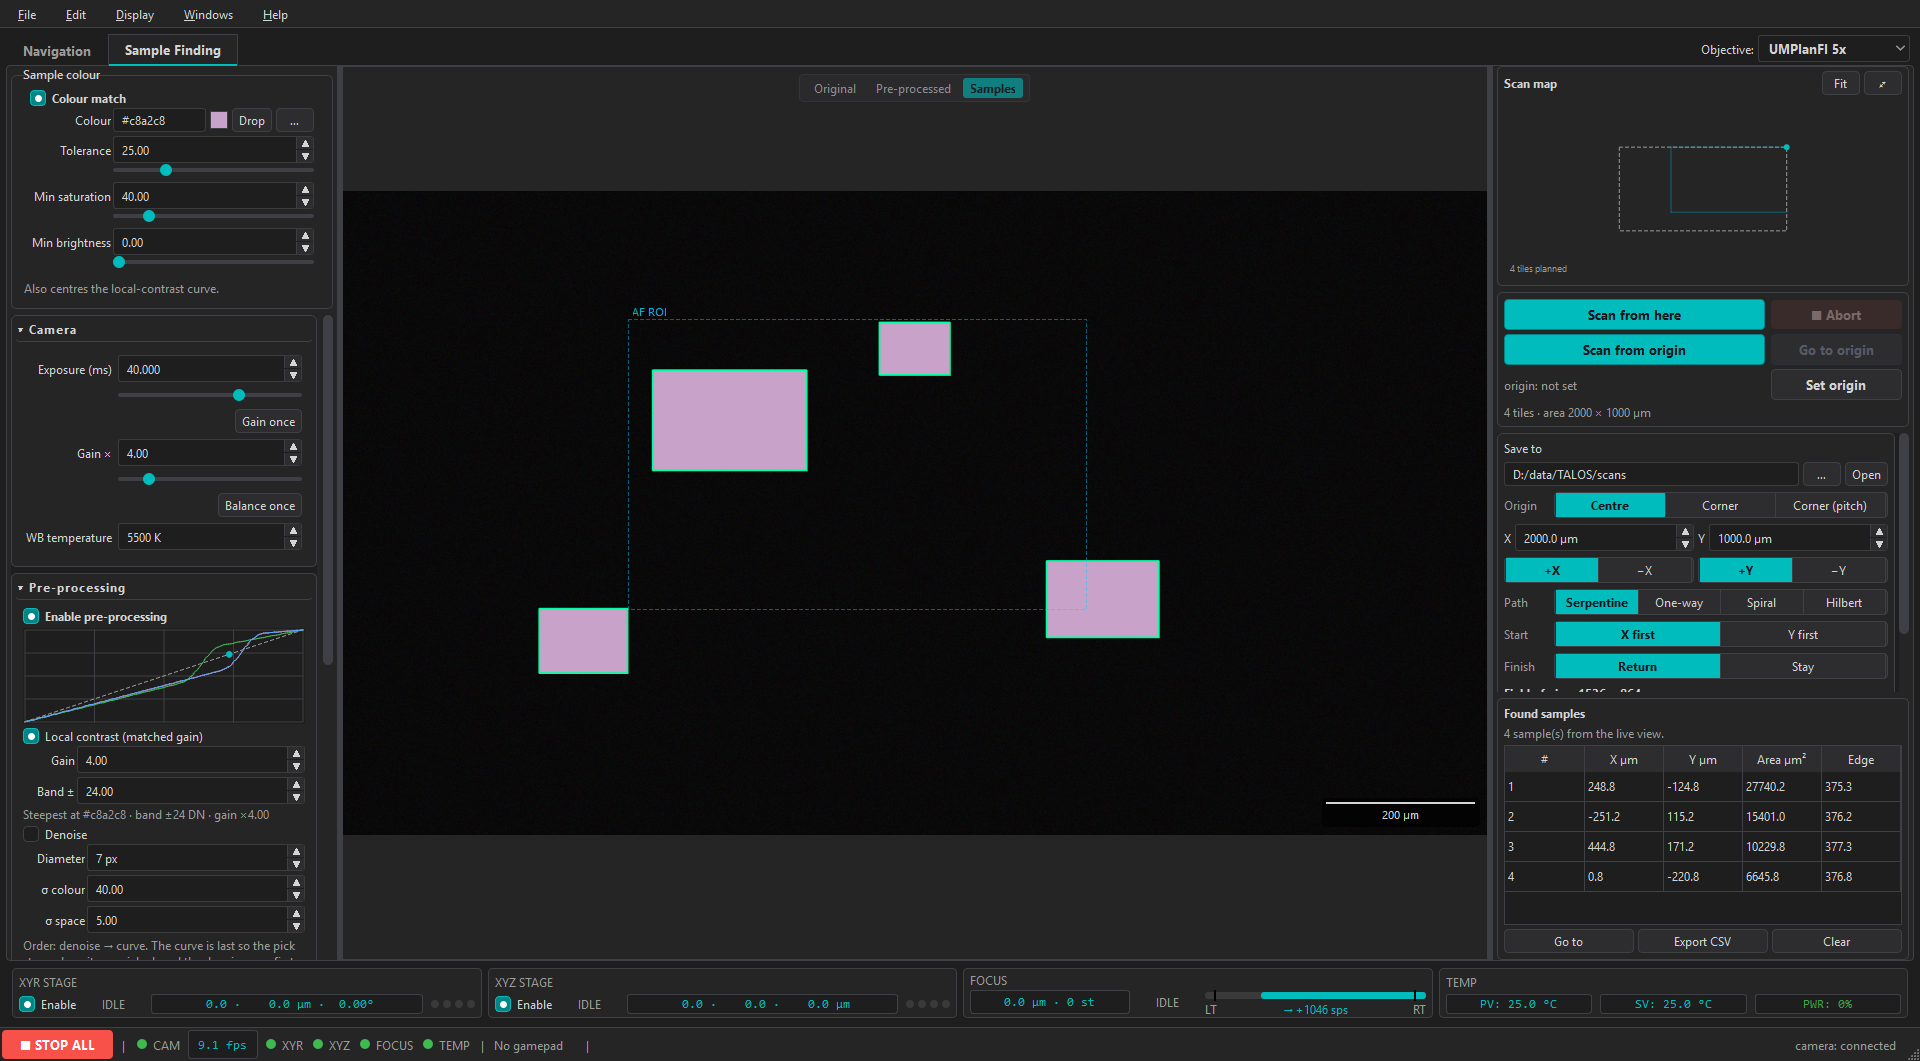
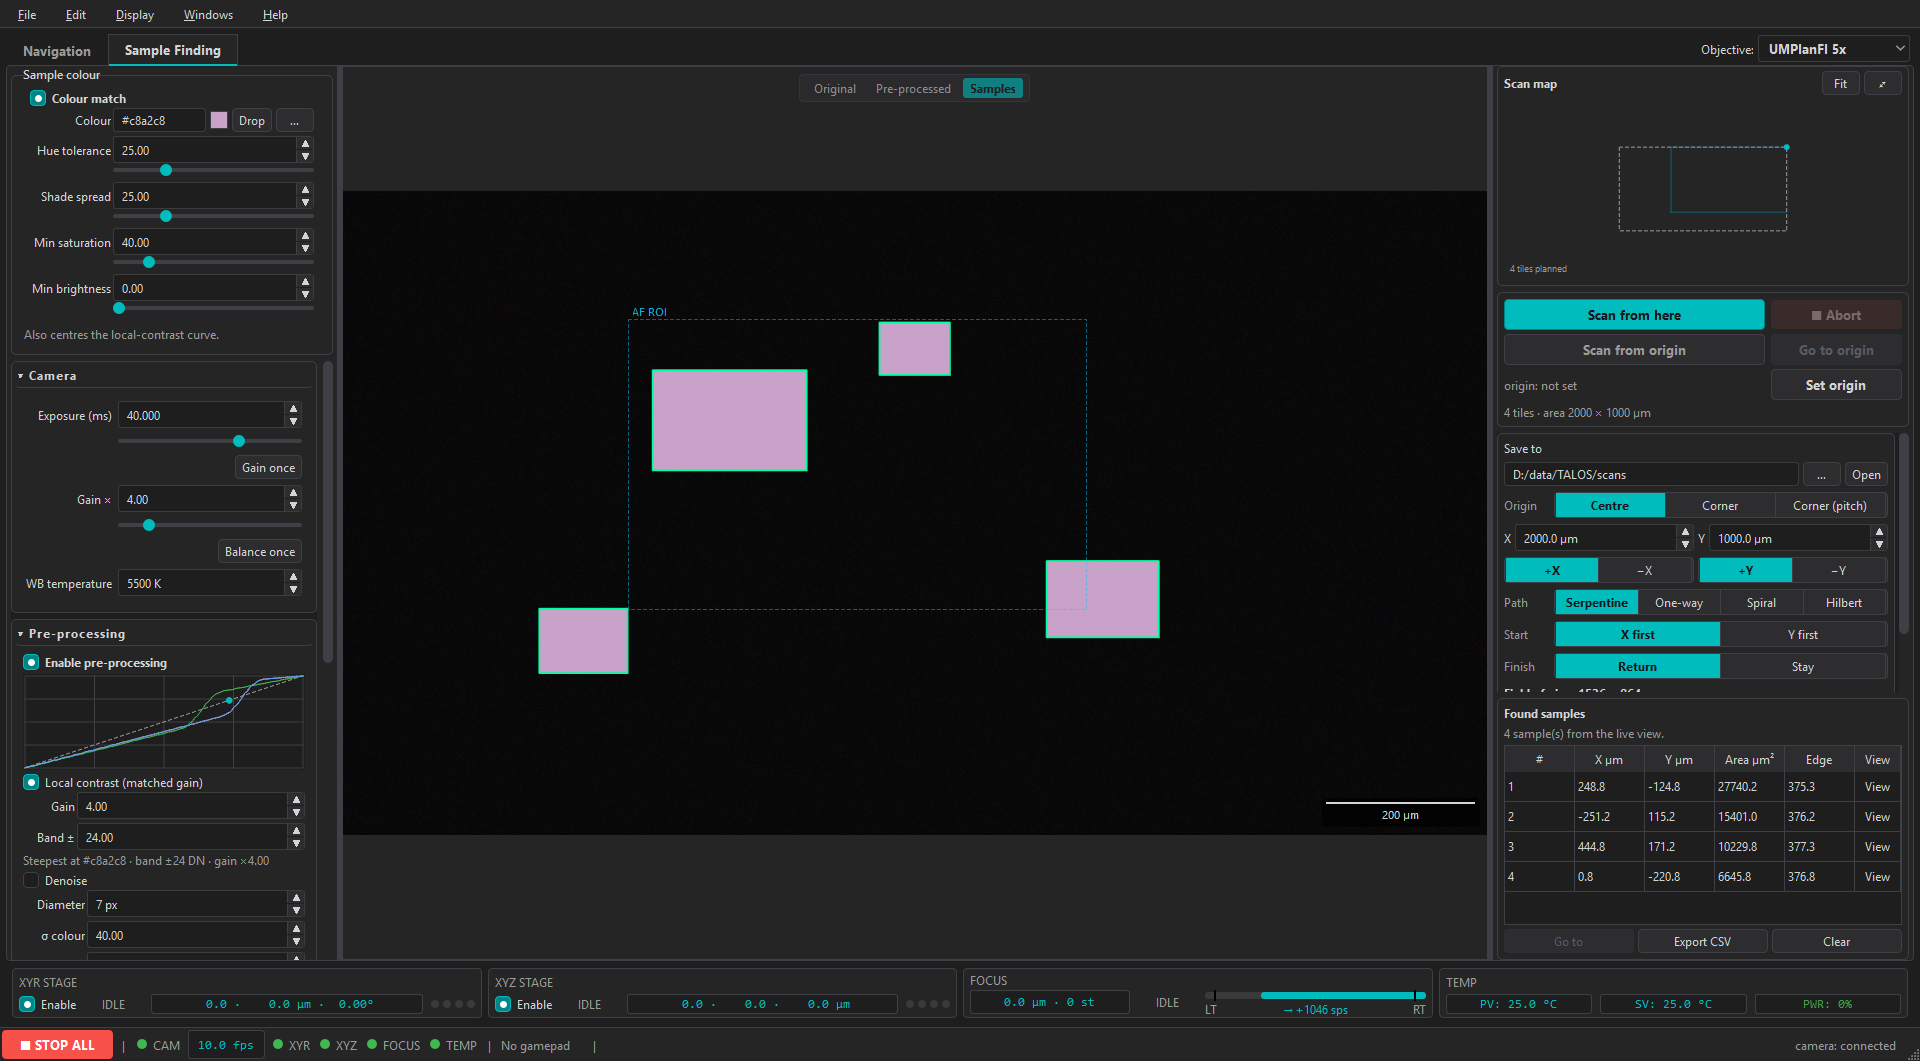
The batch's docs, the re-shot tab image, and a disabled button that lied
- SCAN.md: the sample list and the View column (what the frame is, what the
  ring is drawn from, why the tile index rides beside the candidate, and how
  a row can be reviewed while its run is still writing).
- README: the tab image is re-shot in Samples mode (the new Hue tolerance /
  Shade spread rows and the View column) and the caption says where the live
  list fills from.
- tools/ui_shot.py poses a run folder with one flake in it and grabs the
  review window, plus the panel while a run owns it — the two shots that
  showed the ring landing on the flake and found the theme bug below.
- theme: a DISABLED #qa_primary button kept its accent background and white
  text, so 'Scan from here' looked armed while a run owned the axes — a
  button that refuses every click is as much a lie as one that answers
  'select a sample first'. The #danger rule had this; the primary one did
  not. Found by looking at the screenshot, confirmed fixed by the vision
  MCP ('no risk of mistaking them for clickable').

diff --git a/tools/ui_shot.py b/tools/ui_shot.py
@@ -280,6 +280,74 @@ def main() -> int:
         window.grab().save(str(path))
         print(f"saved {path}")
     finding.set_view_mode("original")
+
+    # --- the sample-review window (the View column) ---------------------
+    #
+    # Posed from a real run folder rather than by handing the window a
+    # picture: the frame it shows is the PNG in `frames/`, found through the
+    # manifest — which is the part worth looking at in a screenshot.
+    import csv as _csv
+
+    from talos.models import FlakeCandidate
+
+    run_dir = Path(os.environ["TALOS_APPDATA"]) / "posed_scan"
+    (run_dir / "frames").mkdir(parents=True, exist_ok=True)
+    tile = np.full((1080, 1920, 3), 40, np.uint8)
+    rng = np.random.default_rng(3)
+    tile = np.clip(tile.astype(np.int16)
+                   + rng.integers(-6, 6, tile.shape), 0, 255).astype(np.uint8)
+    import cv2 as _cv2
+
+    colour = (28, 52, 132)                     # a dark-blue flake
+    cx, cy, half = 690, 470, 210
+    _cv2.ellipse(tile, (cx, cy), (half, int(half * 0.7)), 12, 0, 360, colour,
+                 -1)
+    _cv2.imwrite(str(run_dir / "frames" / "frame_00003.png"),
+                 _cv2.cvtColor(tile, _cv2.COLOR_RGB2BGR))
+    with open(run_dir / "manifest.csv", "w", newline="",
+              encoding="utf-8") as handle:
+        writer = _csv.writer(handle)
+        writer.writerow(["frame", "x_um", "y_um", "r_deg", "t_unix",
+                         "objective_id", "focus_pos"])
+        for index in range(4):
+            name = "frame_00003.png" if index == 3 else ""
+            writer.writerow([name, 100.0 * index, 0.0, 0.0, 0.0, 0, 0])
+    scan_panel = finding.scan_panel
+    scan_panel._run_dir = run_dir
+    scan_panel.on_tile_result(3, [FlakeCandidate(
+        x_px=float(cx), y_px=float(cy), area_px2=float(np.pi * 150.0 ** 2),
+        area_um2=7600.0, x_um=12.5, y_um=-4.0, score=41.0,
+        bbox=(cx - half, cy - half, 2 * half, 2 * half))])
+    flush(200)
+    scan_panel._review_row(0)
+    flush(400)
+    review = scan_panel._review
+    review.resize(980, 700)
+    review.repaint()
+    path = args.out / f"sample_review{tag}.png"
+    review.grab().save(str(path))
+    print(f"saved {path}")
+    review.hide()
+    flush(150)
+
+    # --- the tab while a run owns it (the scan lock) --------------------
+    #
+    # Posed, not run: the lock is what the image is about, and a real run
+    # would walk the stage and repaint the status line every tile.
+    scan_panel._set_job("scan")
+    window._state.set_mode("SCAN")
+    scan_panel.set_status("Tile 12/48 · 0:41 left")
+    flush(250)
+    scan_panel.repaint()
+    path = args.out / f"scan_locked{tag}.png"
+    scan_panel.grab().save(str(path))
+    print(f"saved {path}")
+    scan_panel._set_job(None)
+    window._state.set_mode("MANUAL")
+    scan_panel.set_status("Ready")
+    scan_panel.clear_results()
+    flush(150)
+
     window._tabs.setCurrentIndex(0)
     flush(200)
 

diff --git a/talos/ui/workspaces/sample_finding.py b/talos/ui/workspaces/sample_finding.py
@@ -42,7 +42,7 @@ from PySide6.QtWidgets import (
     QWidget,
 )
 
-from talos.cv.identify import IdentifyConfig, sample_hex_stats
+from talos.cv.identify import IdentifyConfig, hex_to_hsv, sample_hex_stats
 from talos.ui.detect_engine import (LIVE_FULL, LIVE_NONE, LIVE_PREPROCESS,
                                     DetectionEngine)
 from talos.ui.widgets.collapsible import CollapsibleGroup
@@ -391,8 +391,6 @@ class SampleFindingWorkspace(QWidget):
         and on an edge it reads in the tens. 12 leaves room for a noisy
         sensor and a textured flake without hiding the case this exists for.
         """
-        from talos.cv.identify import hex_to_hsv
-
         stage = self.colour_group.stage()
         _hue, sat, val = hex_to_hsv(colour)
         if spread >= _PICK_SPREAD_WARN:

diff --git a/talos/ui/theme.py b/talos/ui/theme.py
@@ -206,6 +206,15 @@ QPushButton#qa_primary {{
 }}
 QPushButton#qa_primary:hover {{ background: {accent_light}; }}
 QPushButton#qa_primary:pressed {{ background: {accent_dark}; }}
+/* A disabled primary button must not look armed, for the same reason the
+   danger one may not: "Scan from here" is still on screen while a run owns
+   the axes, and an accent-coloured button that refuses every click reads as
+   broken rather than as busy. */
+QPushButton#qa_primary:disabled {{
+    background: {PANEL_ALT};
+    color: {TEXT_DIM};
+    border: 1px solid {BORDER};
+}}
 QFrame#card {{
     border: 1px solid {BORDER};
     border-radius: 5px;

diff --git a/talos/ui/widgets/scan_panel.py b/talos/ui/widgets/scan_panel.py
@@ -891,8 +891,8 @@ class ScanPanel(QWidget):
         cost linear — rebuilding it is O(rows), once per tile, on the GUI
         thread, which is quadratic over a run.
         """
-        if not self._row_tiles or self._selected >= 0:
-            return False                     # live rows, or a chosen row
+        if not self._row_tiles:
+            return False                     # nothing shown yet (live rows)
         return all(tile >= 0 for tile in self._row_tiles) \
             and index > self._row_tiles[-1]
 

diff --git a/docs/SCAN.md b/docs/SCAN.md
@@ -564,6 +564,32 @@ map's own window alike: Esc does what it does everywhere else, so there is
 no window in this application where the panic key has been quietly
 repurposed.
 
+## The sample list, and looking at what was found
+
+The list is a table — the row IS the selection — with a trailing **View**
+column. *Go to* moves the stage to the chosen row; *View* opens the frame that
+row's sample was found in.
+
+Two things make that window honest rather than decorative. The frame is the
+one that was **captured** (the PNG in the run's `frames/`, found through the
+manifest, or the live frame for a row the live feed found), and the ring is
+drawn at the candidate's **own** `x_px`/`y_px` with the circle of equal
+`area_px2` — the pixels identification measured, in the frame it measured them
+in. Nothing is re-derived from µm, so no calibration or orientation convention
+enters the drawing, and the ring lands on the flake rather than near it.
+
+The tile index travels *beside* the candidate rather than on it
+(`ScanPanel._row_tiles`): identification is deliberately frame-agnostic — it
+never sees which frame it ran on — and the index is a property of the feed,
+not of the flake. Row *N* of the table stays ring *N* of the annotated mosaic
+and row *N* of `candidates.csv`.
+
+A row can be reviewed **while its run is still going**, which is why the run's
+folder is decided before the first move rather than on the scan thread, and why
+the manifest is re-read while a run is live (the writer flushes a row as it
+writes the frame). A frame the writer has not reached yet says so and is
+re-read once, rather than showing a blank window.
+
 ## What the operator changes, and what they set once
 
 The panel carries the settings that change *between* runs: the area, the

diff --git a/README.md b/README.md
@@ -201,8 +201,11 @@ tone controls, deliberately: one set of them, not two.
 local-contrast curve at ×4: the colour and the camera/CV groups on the left
 (with the filter's three channel curves plotted against the identity), the live
 view in the middle, and on the right the scan map, the run card, the scan
-settings and the list of what the chain found. Everything the chain did not
-match is darkened; each match keeps its own pixels and takes a bright outline.*
+settings and the list of what the chain found — each row with a *View* that
+opens the frame it was found in, ringed. Everything the chain did not match is
+darkened; each match keeps its own pixels and takes a bright outline.
+(The live list and the stage counts come from the chain, so they fill in
+*Samples* mode — the other two views do not run it.)*
 
 **The scan** covers a rectangle of the sample and records where every frame was
 taken. You choose what the start position *means* — the centre of the first
